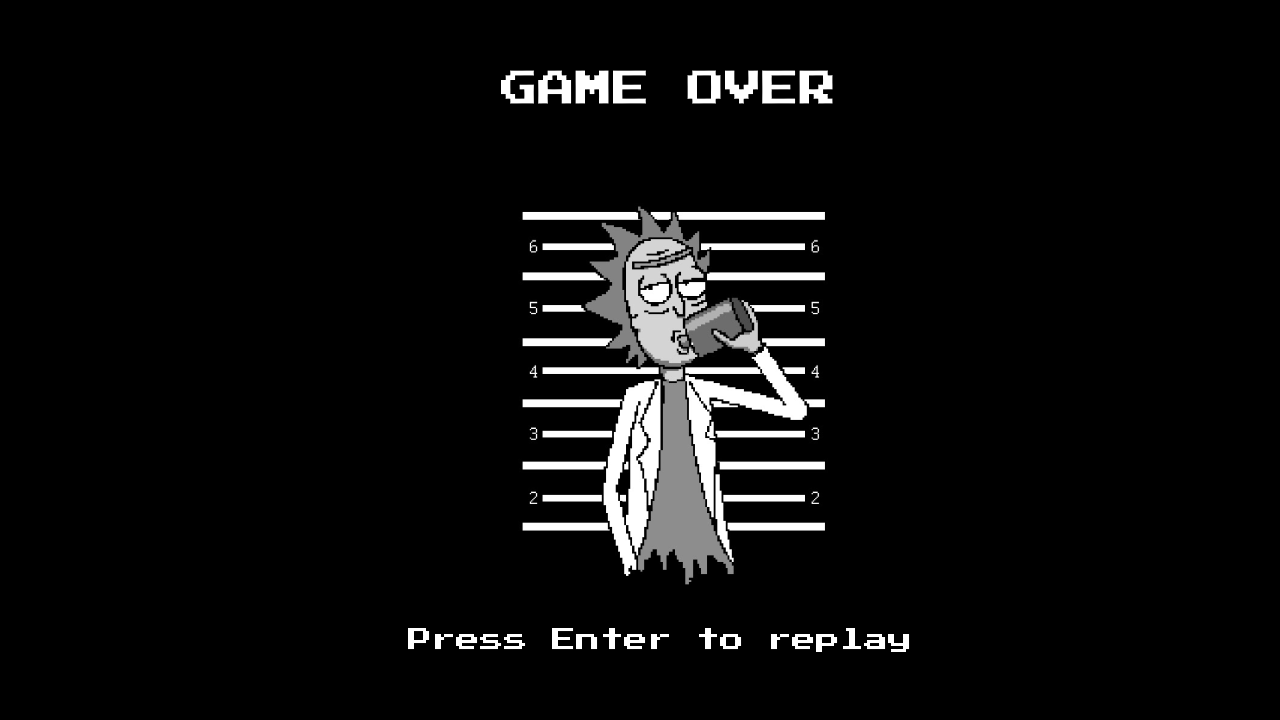
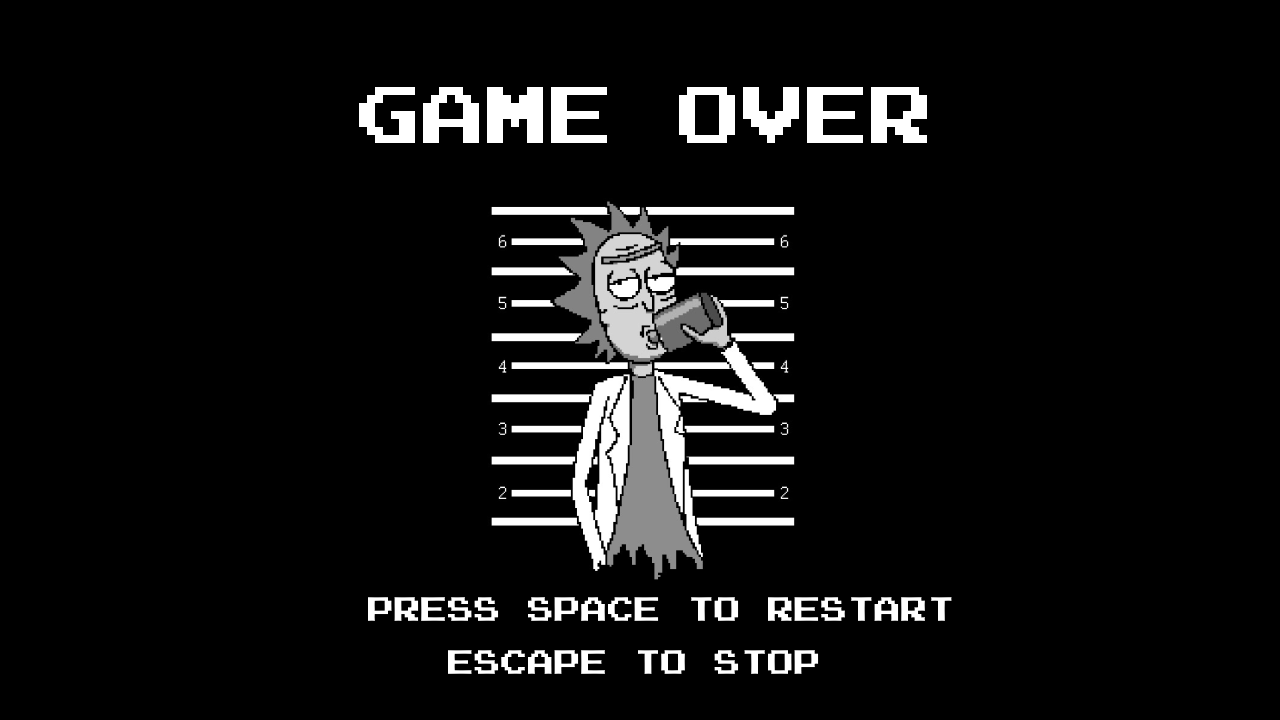
Add: level + new texture
Shows current level on screen, enemies speed up every level, new texture for bullet and bonusship

Changed region(s): [[0.2812, 0.275, 0.75, 0.9472], [0.5312, 0.0917, 0.75, 0.2139], [0.2812, 0.0917, 0.5, 0.2139]]

diff --git a/Game.cpp b/Game.cpp
@@ -34,7 +34,8 @@ void Game::run() {
         auto* enCo = new EnemyController(ROWS,COLUMNS,buCo);
         auto* miscCo = new MiscController(win);
 
-        auto* scoreText = AF->makeText(std::string("Score"), lround(SCREEN_WIDTH/2), lround(10*SCALE_Y), lround(15*SCALE_Y), "Assets/PressStart2P.ttf");
+        auto* scoreText = AF->makeText("Score:", lround(SCREEN_WIDTH/2), lround(10*SCALE_Y), lround(15*SCALE_Y), "Assets/PressStart2P.ttf");
+        auto* levelText = AF->makeText("Level:",lround(10*SCALE_X),lround(10*SCALE_Y),lround(15*SCALE_Y),"Assets/PressStart2P.ttf");
 
         GameController::getInstance().getEventmanager() ->addObserver(pla);
         win->setBackground(GameController::getInstance().getFactory()->makeSprite("Assets/background.png"));
@@ -47,14 +48,25 @@ void Game::run() {
                 buCo->addBullet(lround(pla->getXpos()+pla->getWidth()/2), pla->getYpos(),-1,false);
             pla->update(timePast);
             scoreText->setText("Score:"+to_string(buCo->getScore()));
+            levelText->setText("Level:"+to_string(enCo->getLevel()));
+
             win->enqueueGO(pla);
             win->enqueueText(scoreText);
+            win->enqueueText(levelText);
             enCo->enqueueEnemies(win);
             enCo->moveEnemies(timePast);
             miscCo->bonus(timePast,win);
             buCo->enqueueBullets(win);
             buCo->moveBullets(timePast,enCo->getEnemyVector(),miscCo->getBonusVector());
             miscCo->showHealth(pla->getHealth());
+
+
+
+            if(enCo->isGameOver()) //if enemies has hit the bottom
+            {
+                gameOver = true; //set gameOver variable to true
+                enCo->setGameOver(false);//reset gameOver variable in enCo
+            }
 
             if(pla->getHealth()<=0)
             {
@@ -65,12 +77,12 @@ void Game::run() {
             if(gameOver)
             {
                 win->setBackground(GameController::getInstance().getFactory()->makeSprite("Assets/GameOver.png"));
-                auto* gameOverText = AF->makeText(std::string("Score"), lround(SCREEN_WIDTH/2), lround(10*SCALE_Y), lround(25*SCALE_Y), "Assets/PressStart2P.ttf");
+                auto* gameOverText = AF->makeText(std::string("Score"), lround(SCREEN_WIDTH/2 -100*SCALE_X), lround(10*SCALE_Y), lround(25*SCALE_Y), "Assets/PressStart2P.ttf");
                 pla->setRestart(false); //if space was hit during game, make it undone
 
                 while(!win->pollEvents())
                 {
-                    restart = pla->isRestart();  //set restart tothe restart in player, if player his space restart will be true
+                    restart = pla->isRestart();  //set restart to the restart in player, if player his space restart will be true
                     gameOverText->setText("Score:"+to_string(buCo->getScore()));
                     win->enqueueText(gameOverText);
                     win->draw();
@@ -80,6 +92,7 @@ void Game::run() {
 
                 gameOver = false;
                 pla->setHealth(3);
+                pla->setShoot(false);
                 win->setBackground(GameController::getInstance().getFactory()->makeSprite("Assets/background.png"));
                 enCo->removeEnemies();
                 buCo->removeBullets();

diff --git a/Controllers/BulletController.cpp b/Controllers/BulletController.cpp
@@ -14,8 +14,19 @@ BulletController::BulletController(Player* player)
 
 void BulletController::addBullet(int xPos, int yPos,int direction, bool fromEnemy)
 {
-    auto* bullet = new Bullet(xPos,yPos-lround(BULLET_HEIGHT*SCALE_Y),lround(BULLET_WIDTH*SCALE_X),lround(BULLET_HEIGHT*SCALE_Y),direction,fromEnemy);
-    bulletVector.push_back(bullet);
+    if(fromEnemy)
+    {
+        auto* bullet = new Bullet(xPos, yPos - lround(ENEMY_BULLET_HEIGHT * SCALE_Y),
+                lround(ENEMY_BULLET_WIDTH * SCALE_X), lround(ENEMY_BULLET_HEIGHT * SCALE_Y), direction, fromEnemy);
+        bulletVector.push_back(bullet);
+    }
+    else
+    {
+        auto* bullet = new Bullet(xPos, yPos - lround(PLAYER_BULLET_HEIGHT * SCALE_Y),
+                lround(PLAYER_BULLET_WIDTH * SCALE_X), lround(PLAYER_BULLET_HEIGHT * SCALE_Y), direction, fromEnemy);
+        bulletVector.push_back(bullet);
+    }
+
 }
 
 void BulletController::enqueueBullets(SpaceInvaders::Window::Window* win)
@@ -52,7 +63,7 @@ void BulletController::moveBullets(double timePast, vector<Enemy*> enemyVector,v
                         if(enem->isCanShoot()) //can only kill lowest in a column
                         {
                             enem->setAlive(false);
-                            score += (SCREEN_HEIGHT - enem->getYpos());
+                            score += lround((SCREEN_HEIGHT - enem->getYpos())/5);
                         }
                         bullet->setAlive(false);
 
@@ -72,7 +83,7 @@ void BulletController::moveBullets(double timePast, vector<Enemy*> enemyVector,v
 
                         bonus->setAlive(false);
                         bullet->setAlive(false);
-                        score = score + (SCREEN_HEIGHT-bonus->getYpos());
+                        score += 1000;
                         if(player->getHealth()<MAX_HEALTH)
                             player->setHealth(player->getHealth()+1);  //if bonusship is hit, get extra live
                         break; //enemy hit

diff --git a/Controllers/EnemyController.cpp b/Controllers/EnemyController.cpp
@@ -124,12 +124,23 @@ void EnemyController::moveEnemies(double timePast)
     } else
         printf("wrong movement: check EnemyController, move enemies");
 
-    if (hitBottom || enemyVector.empty())
+    if (hitBottom)
     {
         removeEnemies();
-        createEnemies();
+        gameOver = true;
     }
 
+    if(enemyVector.empty()) //all enemies killed
+    {
+        level ++;
+        removeEnemies();
+        createEnemies();
+
+        for(auto* enem : enemyVector)
+        {
+            enem->setLevelSpeed(level);
+        }
+    }
 }
 
 void EnemyController::removeEnemies()
@@ -141,5 +152,22 @@ const vector<Enemy*> EnemyController::getEnemyVector() const
 {
     return enemyVector;
 }
+
+bool EnemyController::isGameOver() const
+{
+    return gameOver;
+}
+
+void EnemyController::setGameOver(bool gameOver)
+{
+    EnemyController::gameOver = gameOver;
+}
+
+int EnemyController::getLevel() const
+{
+    return level;
+}
+
+
 
 

diff --git a/GameObject/Enemy.cpp b/GameObject/Enemy.cpp
@@ -4,6 +4,8 @@
 
 #include "Enemy.h"
 #include "../Controllers/GameController.h"
+#include "../Game.h"
+//#include<cmath>
 using namespace SpaceInvaders::Controllers;
 
 Enemy::Enemy(int xpos, int ypos, int width, int height) : GameObject(xpos, ypos, width, height)
@@ -16,7 +18,7 @@ Enemy::Enemy(int xpos, int ypos, int width, int height) : GameObject(xpos, ypos,
 void Enemy::update(double timepast)
 {
     if (timepast >0)
-        move(speed*xDirection*timepast*SCALE_X,yDirection*DROPDOWNAMOUNT*SCALE_Y);
+        move(speed*levelSpeed*xDirection*timepast*SCALE_X,yDirection*DROPDOWNAMOUNT*SCALE_Y);
 }
 
 void Enemy::setXDirection(int xDirection)
@@ -47,4 +49,9 @@ void Enemy::setCanShoot(bool canShoot)
 bool Enemy::isCanShoot() const
 {
     return canShoot;
+}
+
+void Enemy::setLevelSpeed(int level)
+{
+    Enemy::levelSpeed = (SPEED_MULTIPLIER+level-1)/SPEED_MULTIPLIER; //level 1 -> levelspeed =1,
 }

diff --git a/Constants.h b/Constants.h
@@ -9,14 +9,18 @@ const int SCREEN_WIDTH_DEFAULT = 1280;
 const int SCREEN_HEIGHT_DEFAULT = 720;
 const int SCREEN_WIDTH = 2560/2;
 const  int SCREEN_HEIGHT = 1440/2;
-const int BULLET_WIDTH = 10;
-const int BULLET_HEIGHT = 10;
+const int ENEMY_BULLET_WIDTH = 15;
+const int ENEMY_BULLET_HEIGHT = 30;
+const int PLAYER_BULLET_WIDTH = 10;
+const int PLAYER_BULLET_HEIGHT = 28;
+
 
 const int PLAYER_SPEED = 500;
 const int ENEMY_SPEED = 80;
 const int ENEMY_BULLET_SPEED = 160;
 const int PLAYER_BULLET_SPEED =500;
 const int BONUSSHIP_SPEED=100;
+const int SPEED_MULTIPLIER = 5;//(SPEED_MULTIPLIER+level-1)/SPEED_MULTIPLIER -> SPEED_MULTIPLIER = how many levels before speed doubles
 
 const int CHANCE =500; //chance of the enemy shooting a bullet (lower is more chance)
 const int BONUSCHANCE =5000;

diff --git a/GameObject/Player.cpp b/GameObject/Player.cpp
@@ -27,7 +27,7 @@ void Player::KeyDown(SpaceInvaders::Events::Key press) {
         case SpaceInvaders::Events::NOTHING:
             break;
         case SpaceInvaders::Events::SPACE:
-            restart = true;
+
             break;
     }
 }
@@ -50,6 +50,7 @@ void Player::KeyUp(SpaceInvaders::Events::Key press) {
 
         case SpaceInvaders::Events::SPACE:
             this->shoot=true;
+            restart = true;
             break;
     }
 }
@@ -64,6 +65,11 @@ void Player::update(double timePast) {
 bool Player::isShoot() const
 {
     return shoot;
+}
+
+void Player::setShoot(bool shoot)
+{
+    Player::shoot = shoot;
 }
 
 void Player::setHealth(int health)
@@ -85,3 +91,4 @@ void Player::setRestart(bool restart)
 {
     Player::restart = restart;
 }
+

diff --git a/GameObject/Bullet.cpp b/GameObject/Bullet.cpp
@@ -11,12 +11,12 @@ Bullet::Bullet(int xPos, int yPos, int width, int height, int direction, bool en
 {
     if(enemy)
     {
-        this->sprite = GameController::getInstance().getFactory()->makeSprite("Assets/redBall.png");
+        this->sprite = GameController::getInstance().getFactory()->makeSprite("Assets/EnemyBullet.png");
         this->speed = ENEMY_BULLET_SPEED;
     }
     else
     {
-        this->sprite = GameController::getInstance().getFactory()->makeSprite("Assets/greenBall.png");
+        this->sprite = GameController::getInstance().getFactory()->makeSprite("Assets/PlayerBullet.png");
         this->speed = PLAYER_BULLET_SPEED;
     }
     this->alive=true;

diff --git a/Controllers/EnemyController.h b/Controllers/EnemyController.h
@@ -26,11 +26,19 @@ namespace SpaceInvaders::Controllers
 
         const vector<Enemy*> getEnemyVector() const;
 
+        bool isGameOver() const;
+
+        void setGameOver(bool gameOver);
+
+        int getLevel() const;
+
     private:
         vector<Enemy*> enemyVector;
         bool moveRight=true;
         int rows;
         int columns;
+        bool gameOver = false;
+        int level = 0;
         BulletController* buCo;
     };
 

diff --git a/GameObject/BonusShip.cpp b/GameObject/BonusShip.cpp
@@ -7,7 +7,7 @@ using namespace SpaceInvaders::GameObjects;
 
 BonusShip::BonusShip(int xPos, int yPos, int width, int height) : Enemy(xPos, yPos,width,height)
 {
-    this->sprite = GameController::getInstance().getFactory()->makeSprite("Assets/greenBall.png");
+    this->sprite = GameController::getInstance().getFactory()->makeSprite("Assets/BonusShip.png");
     this->alive=true;
 }
 

diff --git a/GameObject/Enemy.h b/GameObject/Enemy.h
@@ -33,6 +33,7 @@ namespace SpaceInvaders::GameObjects
 
         void setCanShoot(bool canShoot);
 
+        void setLevelSpeed(int level);
 
     protected:
         bool alive;
@@ -40,7 +41,7 @@ namespace SpaceInvaders::GameObjects
         int xDirection = 0;
         int yDirection = 0;
         double speed = ENEMY_SPEED;
-
+        double levelSpeed =1;
     };
 }
 

diff --git a/Factories/AFactory.h b/Factories/AFactory.h
@@ -15,7 +15,6 @@ namespace SpaceInvaders::Factories {
 
     class AFactory {
     public:
-        //virtual PlayerShip* CreatePS()=0;
         virtual SpaceInvaders::Window::Window* makeWindow() =0;
         virtual Sprite* makeSprite(string path)=0;
         virtual Text::Text* makeText(string text, int x, int y, int fontSize, string font) = 0;

diff --git a/GameObject/Player.h b/GameObject/Player.h
@@ -23,6 +23,8 @@ namespace SpaceInvaders::GameObjects
 
         bool isShoot() const;
 
+        void setShoot(bool shoot);
+
         int getHealth() const;
 
         void setHealth(int health);
